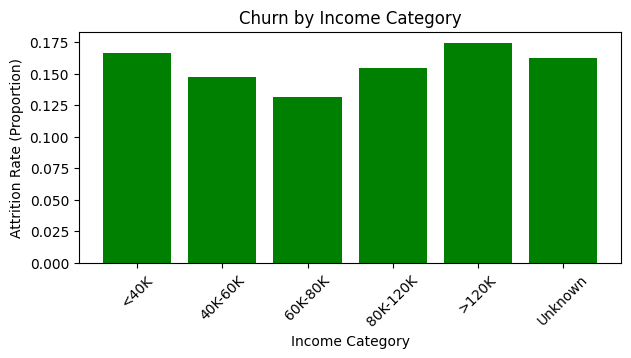
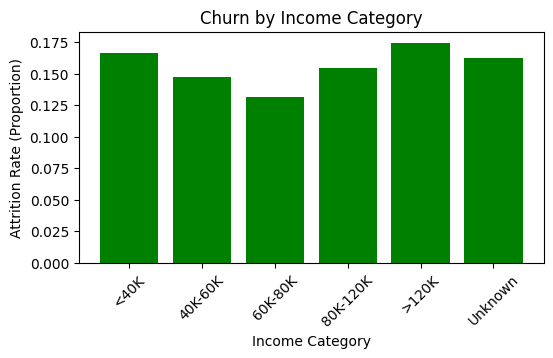
dashboard page updates

diff --git a/templates/dashboard.html b/templates/dashboard.html
@@ -4,27 +4,34 @@
     <meta charset="UTF-8">
     <meta name="viewport" content="width=device-width, initial-scale=1.0">
     <title>Analytics Dashboard</title>
+    <style>
+        .chart5, .chart6 {
+            float: left;           /* Float both divs to the left */
+            margin-right: 10px;    /* Add space between the two divs (optional) */
+            text-align: center;    /* Optional: center the image within the div */
+        }
+    </style>
 </head>
 <body>
-    <h1>Analytics Dashboard</h1>
+    <h1>Analytics Dashboard for Credit Card Customer Churn</h1>
     <div class="dashboard">
         <div class="chart-container">
-            <div class="chart">
-                <h2>Correlation Heatmap</h2>
-                <img src="{{ url_for('static', filename='images/corr_heatmap.png') }}" alt="Correlation Heatmap">
+            <div class="chart1">
+                <img src="{{ url_for('static', filename='images/corr_dict.png') }}" alt="Correlation Dictionary">
             </div>
-            <div class="chart">
-                <h2>Churn by Income</h2>
+            <div class="chart2">
+                <img src="{{ url_for('static', filename='images/rel_status_attrition.png') }}" alt="Churn by Income">
+            </div>
+            <div class="chart3">
+                <img src="{{ url_for('static', filename='images/edu_attrition.png') }}" alt="Churn by Income">
+            </div>
+            <div class="chart4">
+                <img src="{{ url_for('static', filename='images/credit_plot.png') }}" alt="Churn by Income">
+            </div>
+            <div class="chart5">
                 <img src="{{ url_for('static', filename='images/income.png') }}" alt="Churn by Income">
             </div>
-        </div>
-        <div class="chart-container">
-            <div class="chart">
-                <h2>Correlation Bar Chart</h2>
-                <img src="{{ url_for('static', filename='images/corr_dict.png') }}" alt="Correlation Heatmap">
-            </div>
-            <div class="chart">
-                <h2>Churn by Gender</h2>
+            <div class="chart6">
                 <img src="{{ url_for('static', filename='images/gender_attrition.png') }}" alt="Churn by Income">
             </div>
         </div>

diff --git a/utils/dashboard_utils.py b/utils/dashboard_utils.py
@@ -28,7 +28,7 @@ def corr_heatmap(df):
 # Churn by income
 def churn_by_income(df):
     income_attrition = df.groupby('Income_Category')['Attrition_Flag'].mean()
-    plt.figure(figsize=(7, 3))
+    plt.figure(figsize=(6, 3))
     plt.bar(['<40K', '40K-60K', '60K-80K', '80K-120K', '>120K', 'Unknown'], income_attrition, color='green')
     plt.title('Churn by Income Category')
     plt.xlabel('Income Category')
@@ -59,7 +59,7 @@ def corr_dict(df):
 
     # Create a new column for color based on the sign of the correlation
     correlation_df['Color'] = correlation_df['Correlation'].apply(lambda x: 'blue' if x > 0 else 'red')
-    plt.figure(figsize=(10, 6))
+    plt.figure(figsize=(11, 5))
 
     # Create horizontal bars for absolute correlations
     bars = plt.barh(correlation_df['Feature'], correlation_df['Abs_Correlation'], color=correlation_df['Color'])
@@ -90,7 +90,7 @@ def gender_attrition(df):
     labels = ['Stayed', 'Left']
 
     # Plot 1: Proportion of Male customers who stayed vs. left
-    plt.figure(figsize=(11, 3))
+    plt.figure(figsize=(10, 3))
 
     plt.subplot(1, 3, 1)
     male_proportions = gender_attrition.loc[0] / gender_attrition.loc[0].sum()
@@ -116,7 +116,7 @@ def rel_status_attrition(df):
     labels = ['Stayed', 'Left']
 
     # Plot setup
-    plt.figure(figsize=(11, 3))
+    plt.figure(figsize=(13, 3))
 
     # Plot 1: Proportion of Single customers who stayed vs. left
     plt.subplot(1, 3, 1)
@@ -159,7 +159,7 @@ def edu_attrition(df):
     labels = ['Uneducated', 'High School', 'College', 'Graduate', 'Post-Graduate', 'Doctorate', 'Unknown']
 
     # Plot setup
-    plt.figure(figsize=(14, 6))
+    plt.figure(figsize=(11, 4))
 
     # Plot 1: Percentage of total customers by education level
     plt.subplot(1, 2, 1)
@@ -274,7 +274,7 @@ def credit_plot(df):
     ).reset_index(name='Churn_Percentage')
 
     # Plotting
-    plt.figure(figsize=(10, 6))
+    plt.figure(figsize=(11, 5))
     plt.bar(churned_percentage['Revolving_Balance_Group'], churned_percentage['Churn_Percentage'], color='skyblue')
     plt.xlabel('Total Revolving Balance')
     plt.ylabel('Percentage of Churned Customers')
